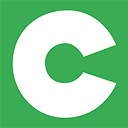
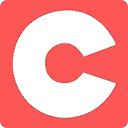
Feat:Replace images and pricinple of question page

diff --git a/html/options.html b/html/options.html
@@ -12,7 +12,7 @@ body,table,input,textarea,select{font-family:微软雅黑,Verdana,sans-serif,宋
   <nav class="navbar navbar-default navbar-fixed-top" style="background-color: rgba(248,248,248,0.8)">
     <div class="container">
       <div class="navbar-header">
-        <a class="navbar-brand" href="#" style="color: #26a69a;">OSChina Block</a>
+        <a class="navbar-brand" href="#" style="color: #c9302c;font-weight: bold;">OSChina Block</a>
       </div>
       <div class="collapse navbar-collapse">
         <ul class="nav navbar-nav">
@@ -78,7 +78,7 @@ body,table,input,textarea,select{font-family:微软雅黑,Verdana,sans-serif,宋
   <div class="container  options-main" id="oscb-about" style="margin-top: 50px;">
     <h3>关于OSChina Block</h3><br/>
     <p>
-      OSChina Block是我在业余时间制作的一个Chrome扩展，旨在隐藏掉oschina.net上部分自己不想看到的人的留言和评论。<br/>
+      OSChina Block是业余时间制作的一个Chrome扩展，旨在隐藏掉oschina.net上部分自己不想看到的人的留言和评论。<br/>
       当然其本身并不会修改oschina.net上的数据，只是将页面上渲染好的数据隐藏。
     </p>
     <hr/>

diff --git a/js/oscb.js b/js/oscb.js
@@ -109,14 +109,28 @@ $(function(){
 	function handleQuestion(blockIdList) {
 		var blockUserIdString = "_" + blockIdList.join("_") + "_";
 		if (blockIdList.length > 0) {
+			var _userId = $(".main .Content .Asker .ainfo img").attr("user");
+			if (_userId != "" && /^\d+$/.test(_userId) && blockUserIdString.indexOf("_" + _userId + "_") != -1) {
+				location.href="123_456";
+			}
+
 			$(".QuestionReplies li.Answer").each(function(index, el){
 				var _userId = $(el).find(".user .user_img img.SmallPortrait").attr("user");
-				console.log(_userId);
 				if (_userId != "" && blockUserIdString.indexOf("_" + _userId + "_") != -1) {
 					$(el).prev().remove();
 					$(el).next().remove();
 					$(el).remove();
 				}
+
+				// comments
+				$(el).find(".replies ul li").each(function(index, el2){
+					var _href = $(el2).find("span.opts a").attr("href");
+					var _userId = _href.substring(_href.indexOf(",") + 1, _href.indexOf(")"));
+
+					if (_userId != "" && /^\d+$/.test(_userId) && blockUserIdString.indexOf("_" + _userId + "_") != -1) {
+						$(el2).remove();
+					}
+				})
 			});
 		}
 	}

diff --git a/html/popup.html b/html/popup.html
@@ -20,7 +20,7 @@ body {
     text-align: center;
 }
 .header h6 {
-  color: #26a69a;
+  color: #c9302c;
   font-weight: bold;
 }
 .oscb-divider {
